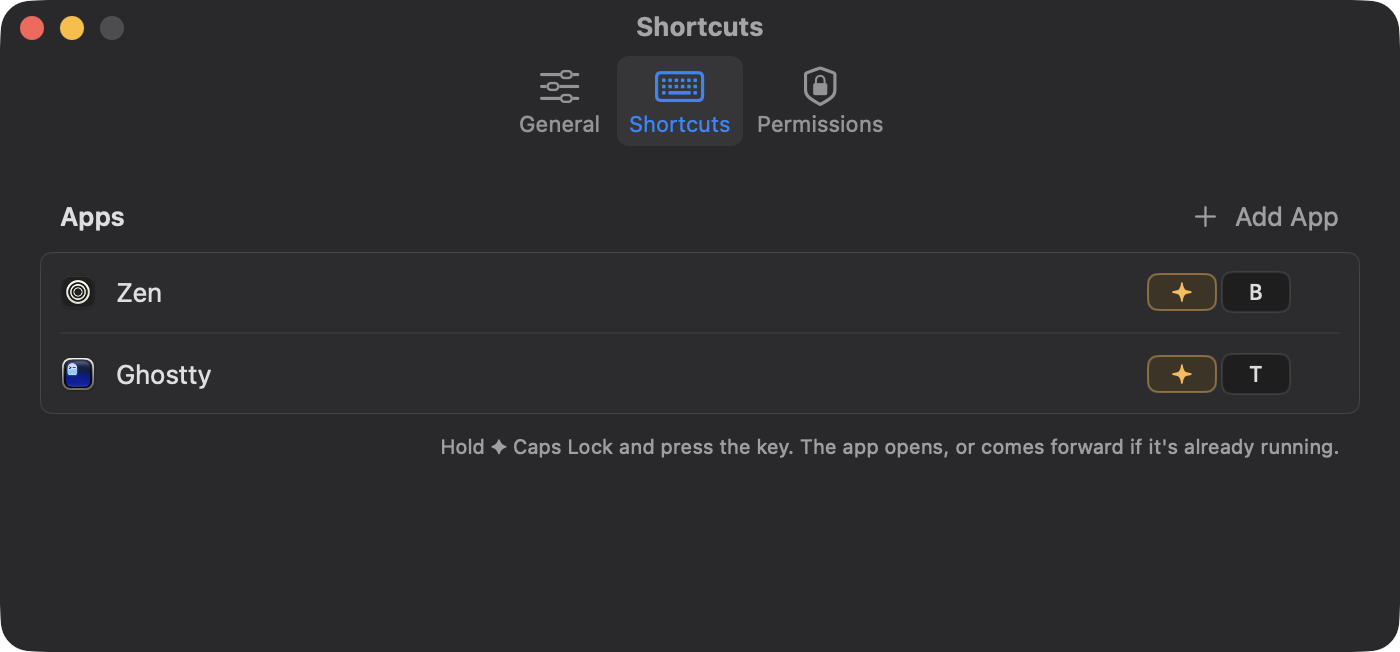
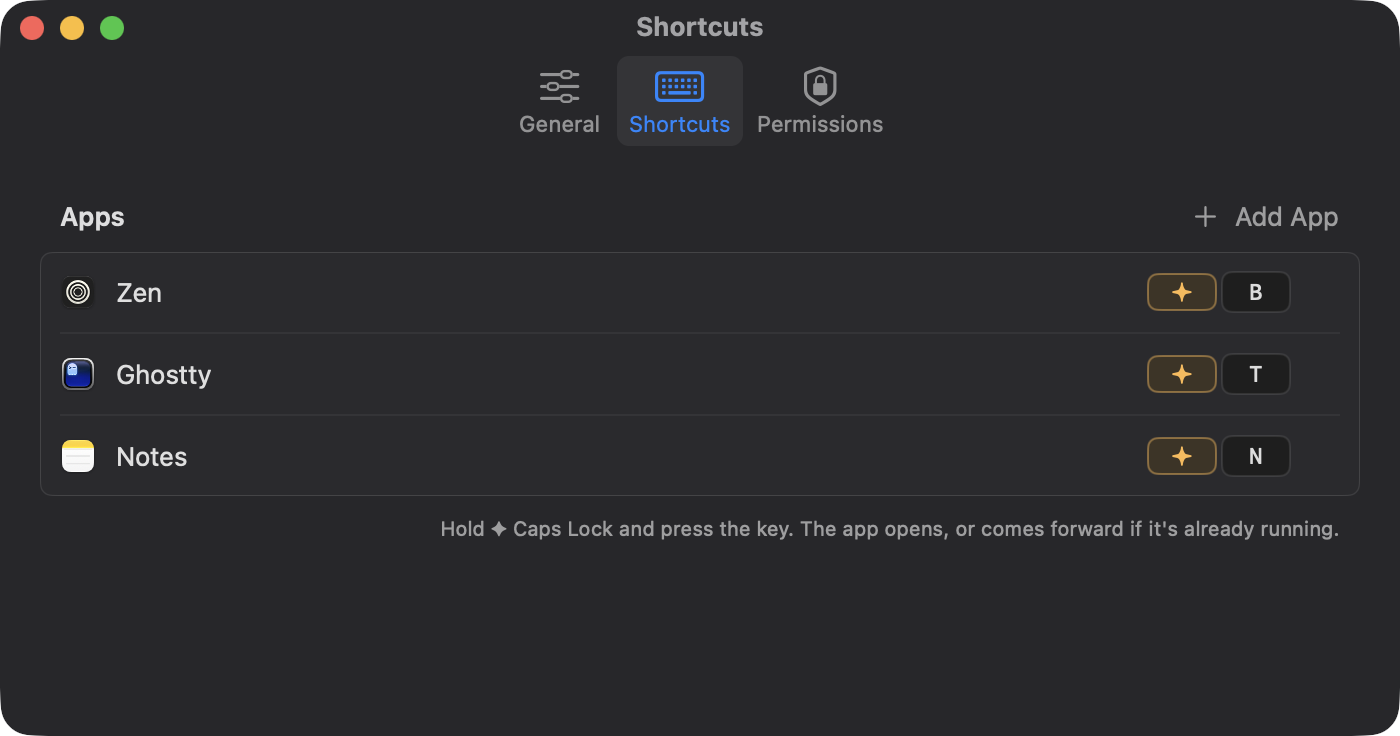
Site and README: Shortcuts screenshot shows ✦ N for Notes
Matches the copy (✦ B browser, ✦ T terminal, ✦ N notes).

Claude-Session: https://claude.ai/code/session_014sSRCGFYfegeGXjQAJiA84

diff --git a/site/index.html b/site/index.html
@@ -783,7 +783,7 @@
             </p>
           </div>
           <div class="shot">
-            <img src="assets/settings-shortcuts.png" width="700" height="326" alt="Superkeys Shortcuts settings with Zen on ✦ B and Ghostty on ✦ T" loading="lazy" />
+            <img src="assets/settings-shortcuts.png" width="700" height="368" alt="Superkeys Shortcuts settings with Zen on ✦ B, Ghostty on ✦ T and Notes on ✦ N" loading="lazy" />
           </div>
         </div>
       </section>
